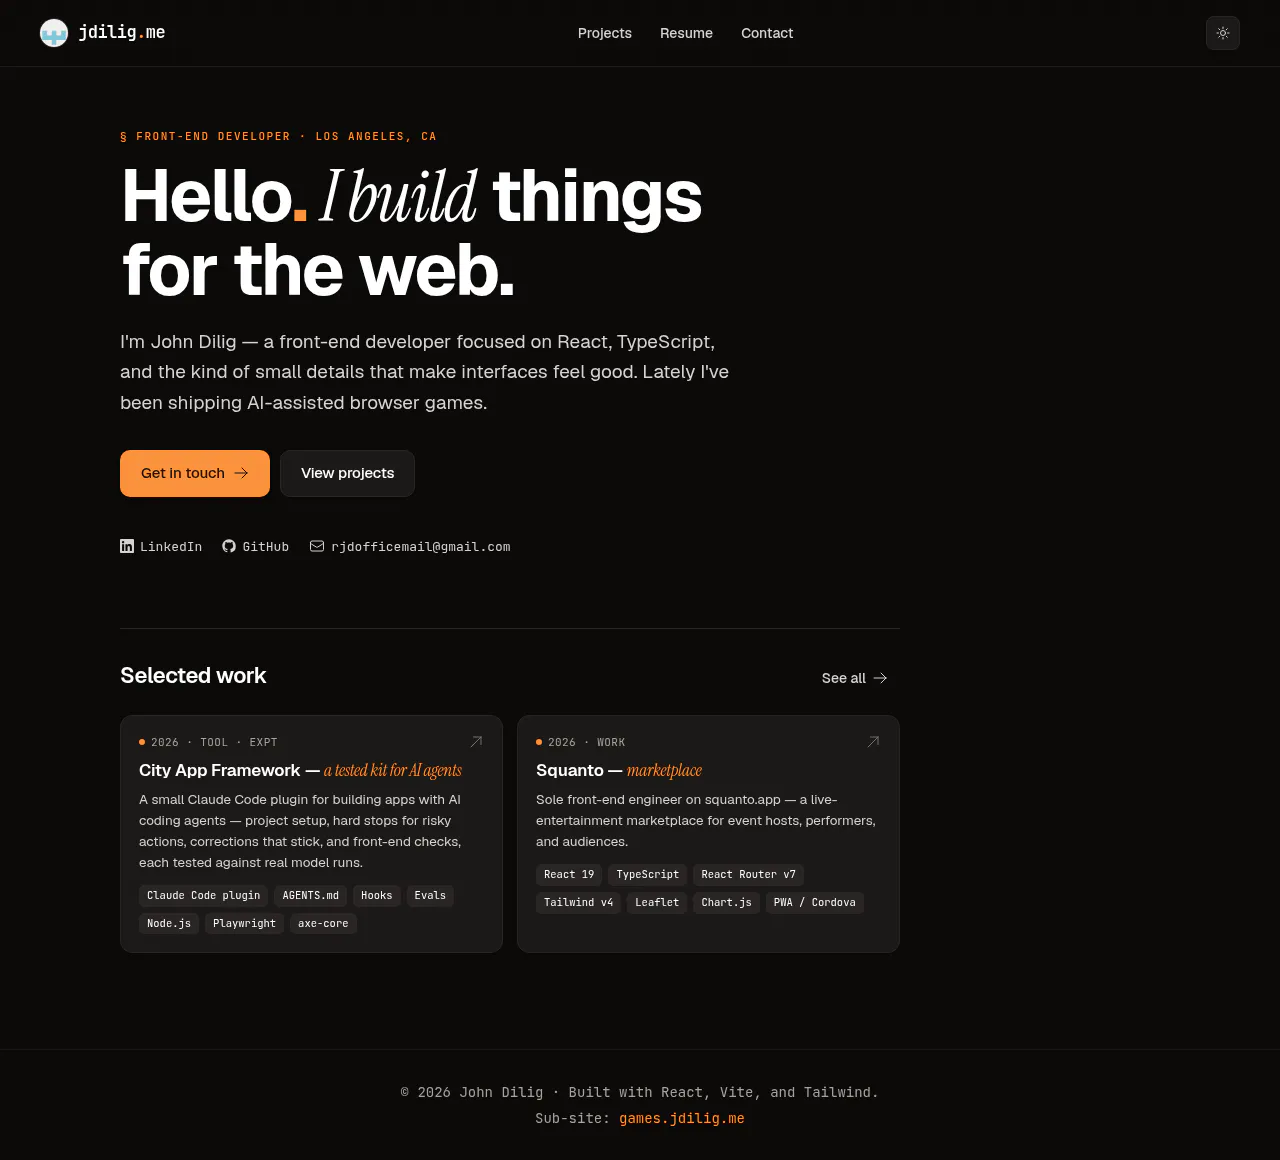
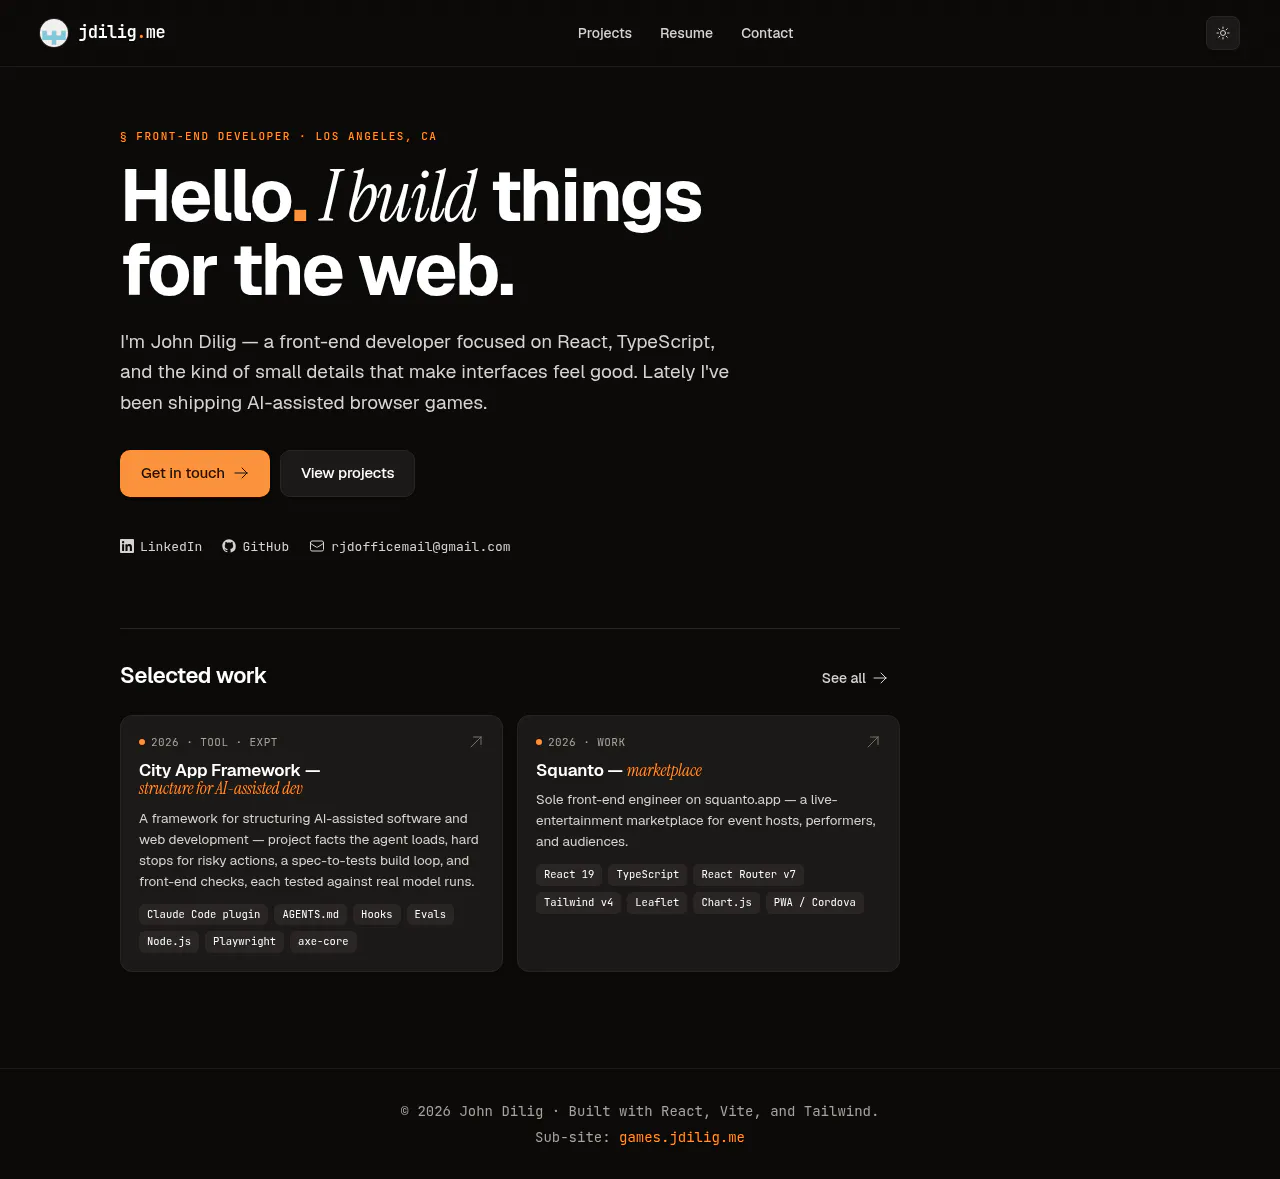
Match the City App page to the reframed white paper
The white paper is now "Structuring AI-assisted software development: a
case study of City App Framework" (city-app-framework 479d064). It
presents City App as a framework for structuring AI-assisted software
and web development, with the experiments as its evidence. The numbers
are unchanged. jdilig.me/whitepaper/ already serves it through the
proxy.

- New white paper title in the first highlight, and its new first
  screen as the project picture (taken from site/ at 479d064, the
  deployed commit).
- Accent, card text, summary and the first overview sentence now use
  the paper's framing: structure for the process, not the code (what
  the agent must know, must never do, and must prove).
- Retook the Home and Projects screenshots (they show the card text)
  and the jdilig.me project page shot.

Claude-Session: https://claude.ai/code/session_01NJcaYBv3Qm8KUHS4kHoaP5

diff --git a/src/data/projects.ts b/src/data/projects.ts
@@ -107,11 +107,11 @@ export const ALL_PROJECTS: Project[] = [
     categories: ['TOOL', 'EXPT'],
     year: '2026',
     title: 'City App Framework',
-    accent: 'a tested kit for AI agents',
+    accent: 'structure for AI-assisted dev',
     status: 'LIVE',
-    desc: 'A small Claude Code plugin for building apps with AI coding agents — project setup, hard stops for risky actions, corrections that stick, and front-end checks, each tested against real model runs.',
+    desc: 'A framework for structuring AI-assisted software and web development — project facts the agent loads, hard stops for risky actions, a spec-to-tests build loop, and front-end checks, each tested against real model runs.',
     summary:
-      "City App Framework gives AI coding agents three things they can't get on their own: your project's facts and working style in a file they actually load, hard stops for the few actions that need you, and a way to make corrections stick. Version 4 was rebuilt from test results — most of v3 never reached the agent — so every rule that made no difference was cut.",
+      "City App Framework gives AI-assisted software and web development a structure: what the agent must know (your project's facts, in a file it actually loads), what it must never do (hooks that stop risky actions), and what it must prove (acceptance tests written from the spec, plus front-end checks). Lessons are kept as checks, not notes. Version 4 was rebuilt from test results — most of v3 never reached the agent — so every rule that made no difference was cut.",
     tags: [
       'Claude Code plugin',
       'AGENTS.md',
@@ -124,12 +124,12 @@ export const ALL_PROJECTS: Project[] = [
     role: 'Author',
     timeline: 'Aug 2025 — Present',
     overview: [
-      "City App Framework is a small kit for building apps with AI coding agents, shipped as a Claude Code plugin. Running `/city-app:setup` in a project installs a 28-line AGENTS.md — the project's facts, filled in from the repo, plus an 8-line working agreement — a one-line CLAUDE.md that makes Claude load it, and two hooks: a guard that asks before a new dependency or deleting a test and blocks force-push, production deploys, and publishing, and a test gate that won't let the agent finish with failing or newly skipped tests. The AGENTS.md part also works with Codex, Cursor, Copilot, and Grok.",
+      "City App Framework gives AI-assisted software and web development a structure — for the process, not the code: how work is specified, checked, and remembered. It ships as a Claude Code plugin. Running `/city-app:setup` in a project installs a 28-line AGENTS.md — the project's facts, filled in from the repo, plus an 8-line working agreement — a one-line CLAUDE.md that makes Claude load it, and two hooks: a guard that asks before a new dependency or deleting a test and blocks force-push, production deploys, and publishing, and a test gate that won't let the agent finish with failing or newly skipped tests. The AGENTS.md part also works with Codex, Cursor, Copilot, and Grok.",
       "Version 4 is a rebuild. A test harness runs headless Claude Code on a small app and scores every run with fixed checks, and it showed that most of v3 never reached the agent: its CLAUDE.md pointer stopped Claude from loading AGENTS.md automatically, and the universal rules sat behind a link no agent opened (0 of 25 runs). Rules against overbuilding and new dependencies made no difference either — none of 285 runs added a dependency, with or without them, even when asked for a web server. So v4 cuts every rule that didn't change behavior and puts anything that must never happen in a hook.",
       'The rest of the plugin: `/city-app:start` builds an app or feature from a short spec, tests first; `/city-app:lesson` turns a correction into a test, a guard rule, or one AGENTS.md line; and `rules:test` and `rules:prune` re-check whether each rule still earns its place on your project, for example after a model update. Front-end checks round it out: `ui:check` finds accessibility problems, console errors, and pages wider than the screen at phone, tablet, and desktop sizes; `ui:baseline` fails a page that no longer matches its approved screenshot; and `ui:tokens` keeps colors in design tokens.',
     ],
     highlights: [
-      'Written up as a white paper, "Laws and customs: which instructions change what AI coding agents do": a case study from v3 to v4 with research questions, methods, significance tests, and limitations.',
+      'Written up as a white paper, "Structuring AI-assisted software development: a case study of City App Framework": the framework and its development loop, with the experiments behind each part — research questions, methods, significance tests, and limitations.',
       'Every part tested against real model runs — 285 scored headless Claude Code sessions — and rules that made no difference were cut.',
       'Found the rules that still change behavior: with a "build the smallest part, then offer options" rule, agents offered options on a vague ask in 5 of 5 runs (0 of 5 without it), and a one-line "add a test for new logic" rule raised test writing from 17 of 25 runs to 25 of 25.',
       'Lessons that stick: a journal of past mistakes carried its lesson in 0 of 5 runs, while one AGENTS.md line or a failing check carried it in 5 of 5 — so `/city-app:lesson` writes checks and one-line rules, not journal entries.',

diff --git a/BACKLOG.md b/BACKLOG.md
@@ -76,7 +76,7 @@ The Sept 2026 responsive pass shipped the core fixes (see "Recently shipped"). H
 
 ## Recently shipped
 
-- **City App Framework white paper at `/whitepaper/` (Sept 28, 2026).** `vercel.json` proxies www.jdilig.me/whitepaper/ to the white paper's own Vercel project (`website`), so visitors stay on jdilig.me and new white paper deploys show up with no change here; it's in the sitemap too. The City App page and pop-up have a "Read the white paper" button for it ("Laws and customs: which instructions change what AI coding agents do", a case study from v3 to v4), and its first screen is the project picture. This sandbox can't reach the white paper's address, so the screenshot was taken from the framework repo's `site/` files at the deployed commit (`902b096`); the capture spec has the live address for next time.
+- **City App Framework white paper at `/whitepaper/` (Sept 28, 2026).** `vercel.json` proxies www.jdilig.me/whitepaper/ to the white paper's own Vercel project (`website`), so visitors stay on jdilig.me and new white paper deploys show up with no change here; it's in the sitemap too. The City App page and pop-up have a "Read the white paper" button for it ("Structuring AI-assisted software development: a case study of City App Framework"; it replaced an earlier draft the same day and showed up here with no change), and its first screen is the project picture. This sandbox can't reach the white paper's address, so the screenshot was taken from the framework repo's `site/` files at the deployed commit (`479d064`); the capture spec has the live address for next time.
 - **City App Framework back, rewritten for v4 (Sept 28, 2026).** Its project page now describes v4: a Claude Code plugin (setup, hooks, lessons, rule testing, front-end checks) and the test results it was rebuilt from. Every claim comes from the framework repo's README, `docs/findings-2026-09.md`, and decision 001. v4 has no website, so the page links only to the source, the old whitepaper-site screenshot and its capture step are gone, and the featured card shows the starfield placeholder. It's back in the sitemap, and Squanto stays the featured project (John's call, Sept 28, 2026); the site screenshots were retaken.
 - **Swipe in the gallery lightbox (Sept 27, 2026).** On touch screens, swipe left / right to page through images; taps, short moves, vertical moves and pinches don't page. The dialog sets `touch-action: pan-y pinch-zoom`: in Chrome's touch emulation, without it a right swipe in the lightbox took the browser back a page (the browser's own history gesture). Tested with emulated touch in headless Chromium, not on a real phone.
 - **Link preview image (Sept 27, 2026).** Shared links now show `public/og-image.png` (1200×630: name, role, location, one-line summary, in the site's dark theme and fonts) instead of the small logo; Twitter/X uses the large card. `npm run og:image` regenerates it from `src/data/profile.ts`; a unit test checks `index.html` points at it at the right size.
